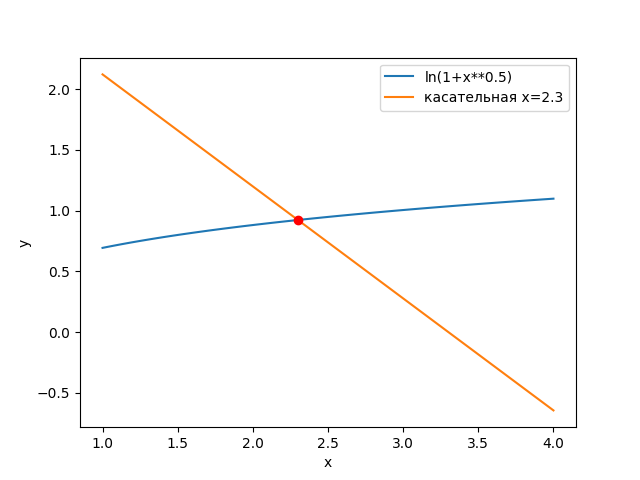
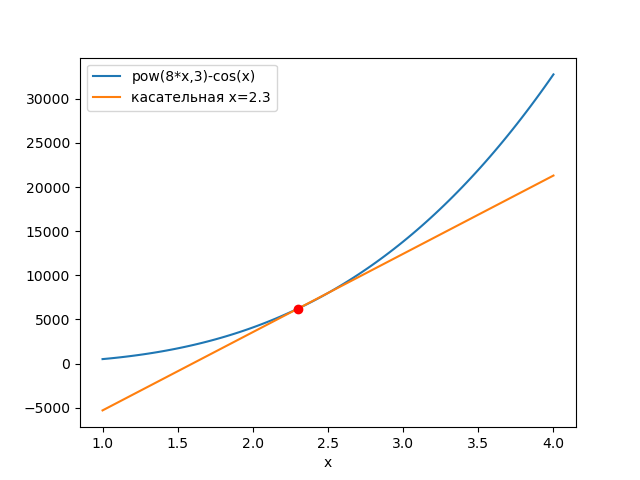
1

diff --git a/lab_5/lab_1.py b/lab_5/lab_1.py
@@ -3,7 +3,7 @@ import matplotlib.pyplot as plt
 import numpy as np
 
 def f(x):
-    return math.log(1+x**0.5)
+    return math.pow(8*x,3)-math.cos(x)
 
 x = np.linspace(1, 4, 100)
 
@@ -11,10 +11,10 @@ y = [f(i) for i in x]
 
 w = 2.3
 
-plt.plot(x, y, label="ln(1+x**0.5)")
+plt.plot(x, y, label="pow(8*x,3)-cos(x)")
 
 def df(x):
-    return -math.log(1+x**0.5)
+    return math.pow(9*x,3)
 
 tangent_slope = df(w)
 
@@ -24,10 +24,69 @@ plt.plot(x, tangent, label="касательная x=2.3")
 plt.plot(w, f(w), "ro")
 
 plt.xlabel('x')
-plt.ylabel('y')
 plt.legend()
 
 plt.show()
+
+# import mathimport math
+# import matplotlib.pyplot as plt
+# import numpy as np
+
+# def f(x):
+#     return math.log(1+x**0.5)
+
+# x = np.linspace(1, 4, 100)
+
+# y = [f(i) for i in x]
+
+# w = 2.3
+
+# plt.plot(x, y, label="ln(1+x**0.5)")
+
+# def df(x):
+#     return -math.log(1+x**0.5)
+
+# tangent_slope = df(w)
+
+# tangent = [f(w) + tangent_slope*(i - w) for i in x]
+
+# plt.plot(x, tangent, label="касательная x=2.3")
+# plt.plot(w, f(w), "ro")
+
+# plt.xlabel('x')
+# plt.ylabel('y')
+# plt.legend()
+
+# plt.show()
+# import matplotlib.pyplot as plt
+# import numpy as np
+
+# def f(x):
+#     return math.log(1+x**0.5)
+
+# x = np.linspace(1, 4, 100)
+
+# y = [f(i) for i in x]
+
+# w = 2.3
+
+# plt.plot(x, y, label="ln(1+x**0.5)")
+
+# def df(x):
+#     return -math.log(1+x**0.5)
+
+# tangent_slope = df(w)
+
+# tangent = [f(w) + tangent_slope*(i - w) for i in x]
+
+# plt.plot(x, tangent, label="касательная x=2.3")
+# plt.plot(w, f(w), "ro")
+
+# plt.xlabel('x')
+# plt.ylabel('y')
+# plt.legend()
+
+# plt.show()
 
 # import math
 # import matplotlib.pyplot as plt
